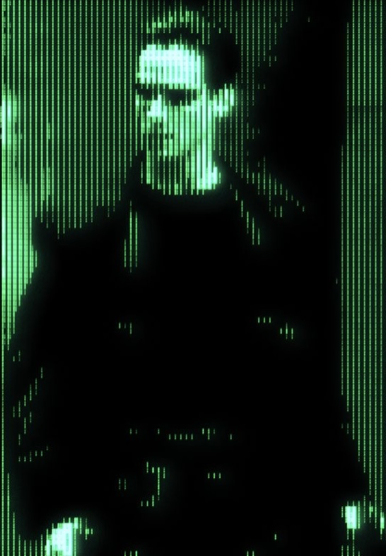
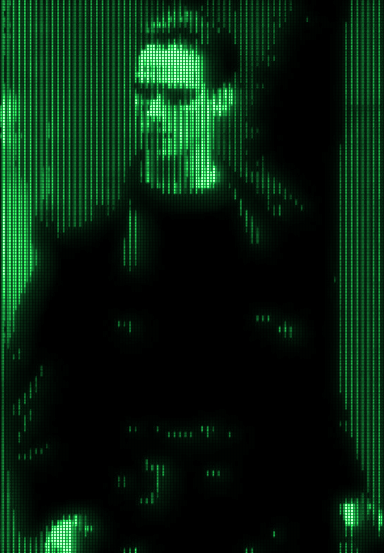
Terminal: заставки собираются из своих фрагментов, в фосфорной гамме скина
- картинки перекрашены в зелёную шкалу скина с фактурой ЭЛТ (tools/bake_term_screens.py)
- вместо проезда вверх-вниз: сборка из слетающихся фрагментов, «дыхание», рассыпание перед сменой
- долетевшие фрагменты впечатываются в готовую часть кадра один раз — кадр укладывается в бюджет

diff --git a/task_quest_terminal.py b/task_quest_terminal.py
@@ -41,7 +41,10 @@ SCREEN_DIR = os.path.join(pt.APP_DIR, "assets", "term_screens")
 SCREENS = [("eye", "WATCHING YOUR TIME"), ("rain", "THE RAIN PRESENTS"), ("neo", "WAKE UP, NEO..."),
            ("bullets", "THERE IS NO SPOON")]
 SCREEN_SEC = 20
-SCREEN_REVEAL = 1.4   # секунд на построчное проявление
+TILE = 16             # картинка собирается из фрагментов TILE×TILE
+ASSEMBLE = 2.4        # секунд на сборку из фрагментов
+SCATTER = 0.9         # секунд на рассыпание перед сменой заставки
+SCREEN_TOP = {"rain": 16, "neo": 18, "bullets": 40}   # какая часть картинки в кадре (сверху, px)
 
 
 def eye_halfheight(dx):
@@ -107,6 +110,10 @@ class AppTerminal(tq.App2):
                 self.screen_src[name] = tk.PhotoImage(file=path)
         x1, y1, x2, y2 = EYE_PANEL
         self.screen_img = tk.PhotoImage(width=x2 - x1 - 2, height=y2 - y1 - 2)
+        # готовая часть кадра: долетевший фрагмент впечатывается сюда один раз, а каждый кадр
+        # копируются только летящие (каждое копирование в Tk стоит ~0,1 мс — тысячу за кадр не успеть)
+        self.screen_settled = tk.PhotoImage(width=x2 - x1 - 2, height=y2 - y1 - 2)
+        self.tiles = None   # фрагменты текущей заставки (откуда летят, задержка)
         self.typed = ("", 0)
         self.rain = [pt.App.new_drop(x, random.uniform(-H, H)) for x in range(90, W, 14)]
         self.rain_colors = [G["rain_head"]] + [mix(G["rain_tail"], G["bg"], 0.6 * k / RAIN_TRAIL)
@@ -164,6 +171,18 @@ class AppTerminal(tq.App2):
         self.save()
         self.show_toast("Падающие символы: " + ("ВКЛ" if self.data["fx"] else "ВЫКЛ"), 20)
 
+    def make_tiles(self, pw, ph):
+        """Фрагменты картинки: каждый стартует из случайной точки экрана и с задержкой «волной» от центра."""
+        tiles = []
+        cx, cy = pw / 2, ph / 2
+        for ty in range(0, ph, TILE):
+            for tx in range(0, pw, TILE):
+                dist = math.hypot(tx - cx, (ty - cy) * 2) / math.hypot(cx, cy * 2)
+                tiles.append({"x": tx, "y": ty,
+                              "sx": random.uniform(-40, pw + 40), "sy": random.uniform(-30, ph + 30),
+                              "delay": dist * 0.8 + random.uniform(0, 0.35)})
+        return tiles
+
     def next_screen(self):
         """Следующая заставка (сама — раз в SCREEN_SEC, или щелчок по экрану с картинкой)."""
         names = [n for n, _ in SCREENS if n == "eye" or n in self.screen_src]
@@ -171,34 +190,70 @@ class AppTerminal(tq.App2):
         nxt = names[(names.index(cur) + 1) % len(names)] if cur in names else names[0]
         self.screen_i = [n for n, _ in SCREENS].index(nxt)
         self.screen_since = time.time()
+        self.tiles = None
 
     def draw_screen(self, name, label, f):
-        """Картинка-заставка: проявляется построчно, медленно плывёт, по ней бежит развёртка и изредка глитч."""
+        """Картинка-заставка собирается из своих фрагментов, «дышит» и перед сменой рассыпается."""
         x1, y1, x2, y2 = EYE_PANEL
-        src, img = self.screen_src[name], self.screen_img
+        src, img, settled = self.screen_src[name], self.screen_img, self.screen_settled
         pw, ph = img.width(), img.height()
+        top = min(SCREEN_TOP.get(name, 0), max(0, src.height() - ph))
         t = time.time() - self.screen_since
-        # медленный «проезд» камеры по картинке туда и обратно
-        span = max(0, src.height() - ph)
-        off = int(span * (0.5 - 0.5 * math.cos(math.pi * min(1.0, t / SCREEN_SEC) * 2))) if span else 0
-        img.tk.call(img, "copy", src, "-from", 0, off, pw, off + ph, "-to", 0, 0)
-        if random.random() < 0.06:   # глитч: полоска картинки съезжает вбок
-            gy = random.randint(0, ph - 12)
-            gh = random.randint(4, 12)
-            dx = random.choice((-14, -8, 8, 14))
-            img.tk.call(img, "copy", src, "-from", max(0, -dx), off + gy, pw - max(0, dx), off + gy + gh,
-                        "-to", max(0, dx), gy)
+        if self.tiles is None:
+            self.tiles = self.make_tiles(pw, ph)
+            settled.blank()
+        cmds = []   # все копирования кадра — одной пачкой команд Tcl (тысяча фрагментов за один вызов)
+
+        def copy(tx, ty, dx, dy):
+            dx, dy = int(dx), int(dy)
+            fx, fy = tx + max(0, -dx), ty + max(0, -dy)   # часть фрагмента за краем экрана отрезаем
+            if fx >= tx + TILE or fy >= ty + TILE or dx >= pw or dy >= ph:
+                return
+            cmds.append(f"{img} copy {src} -from {fx} {top + fy} {tx + TILE} {top + ty + TILE} "
+                        f"-to {max(0, dx)} {max(0, dy)}")
+        ease = lambda k: 1 - (1 - k) ** 3
+        leaving = t > SCREEN_SEC - SCATTER
+        if t < ASSEMBLE + 0.8 or leaving:
+            # сборка: фрагменты слетаются на место; рассыпание — разлетаются обратно
+            fixed = []
+            for tl in self.tiles:
+                if leaving:
+                    k = 1 - ease(min(1.0, max(0.0, (t - (SCREEN_SEC - SCATTER)) / SCATTER - tl["delay"] * 0.3)))
+                    if k < 1 and tl.get("set"):   # фрагмент сорвался с места — убрать его из готовой части
+                        tl["set"] = False
+                        fixed.append(f"{settled} put {G['bg']} -to {tl['x']} {tl['y']} {tl['x'] + TILE} {tl['y'] + TILE}")
+                else:
+                    k = ease(min(1.0, max(0.0, (t - tl["delay"]) / (ASSEMBLE - 0.8))))
+                    if k >= 1 and not tl.get("set"):   # долетел — впечатываем в готовую часть один раз
+                        tl["set"] = True
+                        fixed.append(f"{settled} copy {src} -from {tl['x']} {top + tl['y']} {tl['x'] + TILE} "
+                                     f"{top + tl['y'] + TILE} -to {tl['x']} {tl['y']}")
+                if k <= 0 or tl.get("set"):
+                    continue
+                copy(tl["x"], tl["y"], tl["sx"] + (tl["x"] - tl["sx"]) * k, tl["sy"] + (tl["y"] - tl["sy"]) * k)
+            if fixed:
+                img.tk.eval("\n".join(fixed))
+            cmds.insert(0, f"{img} blank\n{img} copy {settled}")
+        else:
+            # собранный кадр «дышит»: несколько фрагментов отрываются, сдвигаются и защёлкиваются обратно
+            img.tk.call(img, "copy", src, "-from", 0, top, pw, top + ph, "-to", 0, 0)
+            rnd = random.Random(int(t * 2.5))
+            for _ in range(14):
+                tl = rnd.choice(self.tiles)
+                phase = (t * 2.5) % 1
+                lift = math.sin(phase * math.pi)
+                dx = rnd.choice((-1, 1)) * rnd.randint(3, 10) * lift
+                dy = rnd.choice((-1, 1)) * rnd.randint(2, 6) * lift
+                cmds.append(f"{img} put {G['bg']} -to {tl['x']} {tl['y']} {min(pw, tl['x'] + TILE)} "
+                            f"{min(ph, tl['y'] + TILE)}")
+                copy(tl["x"], tl["y"], max(0, min(pw - TILE, tl["x"] + dx)), max(0, min(ph - TILE, tl["y"] + dy)))
+        if cmds:
+            img.tk.eval("\n".join(cmds))
         self.rect(x1, y1, x2, y2, G["bg"])
         self.cv.create_image(x1 + 1, y1 + 1, image=img, anchor="nw", tags=self.layer)
-        reveal = min(1.0, t / SCREEN_REVEAL)
-        if reveal < 1:   # построчное проявление сверху вниз с яркой полосой развёртки
-            ry = y1 + 1 + int(ph * reveal)
-            self.rect(x1 + 1, ry, x2 - 1, y2 - 1, G["bg"])
-            self.rect(x1 + 1, ry - 2, x2 - 1, ry + 1, G["hot"])
-        else:            # бегущая полоса развёртки, как на ЭЛТ
-            sy = y1 + 1 + (f * 5) % ph
-            self.cv.create_rectangle(x1 + 1, sy, x2 - 1, sy + 3, fill=G["bright"], outline="", stipple="gray25",
-                                     tags=self.layer)
+        sy = y1 + 1 + (f * 5) % ph   # бегущая полоса развёртки, как на ЭЛТ
+        self.cv.create_rectangle(x1 + 1, sy, x2 - 1, sy + 3, fill=G["bright"], outline="", stipple="gray25",
+                                 tags=self.layer)
         for x in range(x1, x2, 6):   # пунктирная рамка, как у глаза
             self.rect(x, y1, x + 3, y1 + 1, G["mid"])
             self.rect(x, y2 - 1, x + 3, y2, G["mid"])

diff --git a/tools/bake_term_screens.py b/tools/bake_term_screens.py
@@ -1,0 +1,91 @@
+"""Готовит заставки Terminal: картинка → палитра фосфорного экрана скина, с фактурой ЭЛТ.
+
+Яркость каждой точки (после растяжения контраста) переводится в зелёную шкалу скина
+(чёрный → glow → dim → mid → bright → hot), поверх — вертикальные штрихи и строки развёртки,
+как у большого таймера Terminal. Исходники лежат в tools/term_src, результат — assets/term_screens.
+
+Запуск:  python3 tools/bake_term_screens.py
+"""
+import os
+import subprocess
+import sys
+import tkinter as tk
+
+HERE = os.path.dirname(os.path.dirname(os.path.abspath(__file__)))
+SRC = os.path.join(HERE, "tools", "term_src")
+OUT = os.path.join(HERE, "assets", "term_screens")
+WIDTH = 384   # ширина окна экрана Terminal (без рамки)
+
+# шкала фосфора скина Terminal (task_quest_terminal.G): положение 0..1 → цвет
+RAMP = [(0.00, "#000000"), (0.18, "#0a3d1a"), (0.42, "#11702f"), (0.66, "#1fae48"), (0.86, "#39ff6a"),
+        (1.00, "#c4ffd2")]
+# кадрирование источника (x, y, ширина, высота) — у «пуль» берём основной кадр без миниатюр снизу
+CROP = {"bullets": (0, 0, 649, 438)}
+
+
+def hex2rgb(h):
+    return tuple(int(h[i:i + 2], 16) for i in (1, 3, 5))
+
+
+RAMP_RGB = [(p, hex2rgb(c)) for p, c in RAMP]
+
+
+def ramp(v):
+    for (p0, c0), (p1, c1) in zip(RAMP_RGB, RAMP_RGB[1:]):
+        if v <= p1:
+            t = (v - p0) / (p1 - p0)
+            return tuple(round(a + (b - a) * t) for a, b in zip(c0, c1))
+    return RAMP_RGB[-1][1]
+
+
+def prepare(name, tmp, root):
+    """Исходник → PNG нужной ширины (через sips, с кадрированием)."""
+    src = os.path.join(SRC, f"{name}.jpg")
+    subprocess.run(["sips", "-s", "format", "png", src, "--out", tmp], capture_output=True, check=True)
+    if name in CROP:   # кадрируем сами: sips игнорирует смещение и режет из середины
+        x, y, w, h = CROP[name]
+        full = tk.PhotoImage(master=root, file=tmp)
+        part = tk.PhotoImage(master=root, width=w, height=h)
+        part.tk.call(part, "copy", full, "-from", x, y, x + w, y + h)
+        part.write(tmp, format="png")
+    subprocess.run(["sips", "--resampleWidth", str(WIDTH), tmp], capture_output=True, check=True)
+
+
+def bake(name, root):
+    tmp = os.path.join(OUT, f".{name}_src.png")
+    prepare(name, tmp, root)
+    src = tk.PhotoImage(master=root, file=tmp)
+    w, h = src.width(), src.height()
+    lum = [[0.0] * w for _ in range(h)]
+    hist = []
+    for y in range(h):
+        for x in range(w):
+            r, g, b = src.get(x, y)
+            v = 0.3 * r + 0.59 * g + 0.11 * b
+            lum[y][x] = v
+            hist.append(v)
+    hist.sort()
+    lo, hi = hist[int(len(hist) * 0.02)], hist[int(len(hist) * 0.995)]   # растяжение контраста
+    out = tk.PhotoImage(master=root, width=w, height=h)
+    for y in range(h):
+        row = []
+        scan = 0.78 if y % 3 == 2 else 1.0                       # строки развёртки
+        for x in range(w):
+            v = max(0.0, min(1.0, (lum[y][x] - lo) / max(1.0, hi - lo)))
+            v = v ** 0.85
+            stroke = 0.62 if x % 3 == 2 else 1.0                  # вертикальные штрихи фосфора
+            r, g, b = ramp(v * stroke * scan)
+            row.append(f"#{r:02x}{g:02x}{b:02x}")
+        out.put("{" + " ".join(row) + "}", to=(0, y))
+    out.write(os.path.join(OUT, f"{name}.png"), format="png")
+    os.remove(tmp)
+    return w, h
+
+
+if __name__ == "__main__":
+    os.makedirs(OUT, exist_ok=True)
+    root = tk.Tk()
+    root.withdraw()
+    for name in sys.argv[1:] or ("rain", "neo", "bullets"):
+        print(name, "%d×%d" % bake(name, root))
+    root.destroy()

diff --git a/README.md b/README.md
@@ -67,7 +67,7 @@
 Зелёный фосфорный экран старого терминала.
 
 - **Командная строка** печатает вопрос «Войти в квест «…»? Y/N ..» с мигающим курсором, а во время работы — «квест выполняется...»
-- **Сменяющиеся заставки** в окне экрана — полутоновый глаз, ASCII-заставка THE RAIN, «Wake up, Neo…» и «There is no spoon» (картинки в `assets/term_screens`): раз в 20 секунд или по щелчку по экрану следующая заставка проявляется построчно, как на ЭЛТ, медленно плывёт, по ней бежит полоса развёртки и проскакивают глитчи
+- **Сменяющиеся заставки** в окне экрана — полутоновый глаз, ASCII-заставка THE RAIN, «Wake up, Neo…» и «There is no spoon». Картинки перекрашены в зелёную фосфорную гамму скина с фактурой ЭЛТ (`tools/bake_term_screens.py`, исходники в `tools/term_src`). Раз в 20 секунд или по щелчку по экрану заставка рассыпается на фрагменты, и следующая собирается из своих же фрагментов, слетающихся со всего экрана; собранный кадр «дышит» — отдельные фрагменты отрываются и встают на место
 - **Полутоновый глаз** следит за временем: пока идёт таймер, он открыт, моргает и водит зрачком, а на паузе дремлет и иногда приоткрывается
 - **Большой таймер** показывает общее время за день — из вертикальных штрихов со свечением (время текущего квеста — в строке под ним), полоса **Loading.. FOCUS** — прогресс 25-минутной сессии, слева вертикальная надпись QUEST и шкала дня
 - **Список квестов** в виде вывода `dir`: выбранный выделен инверсией, у квеста в работе мигает ▶
